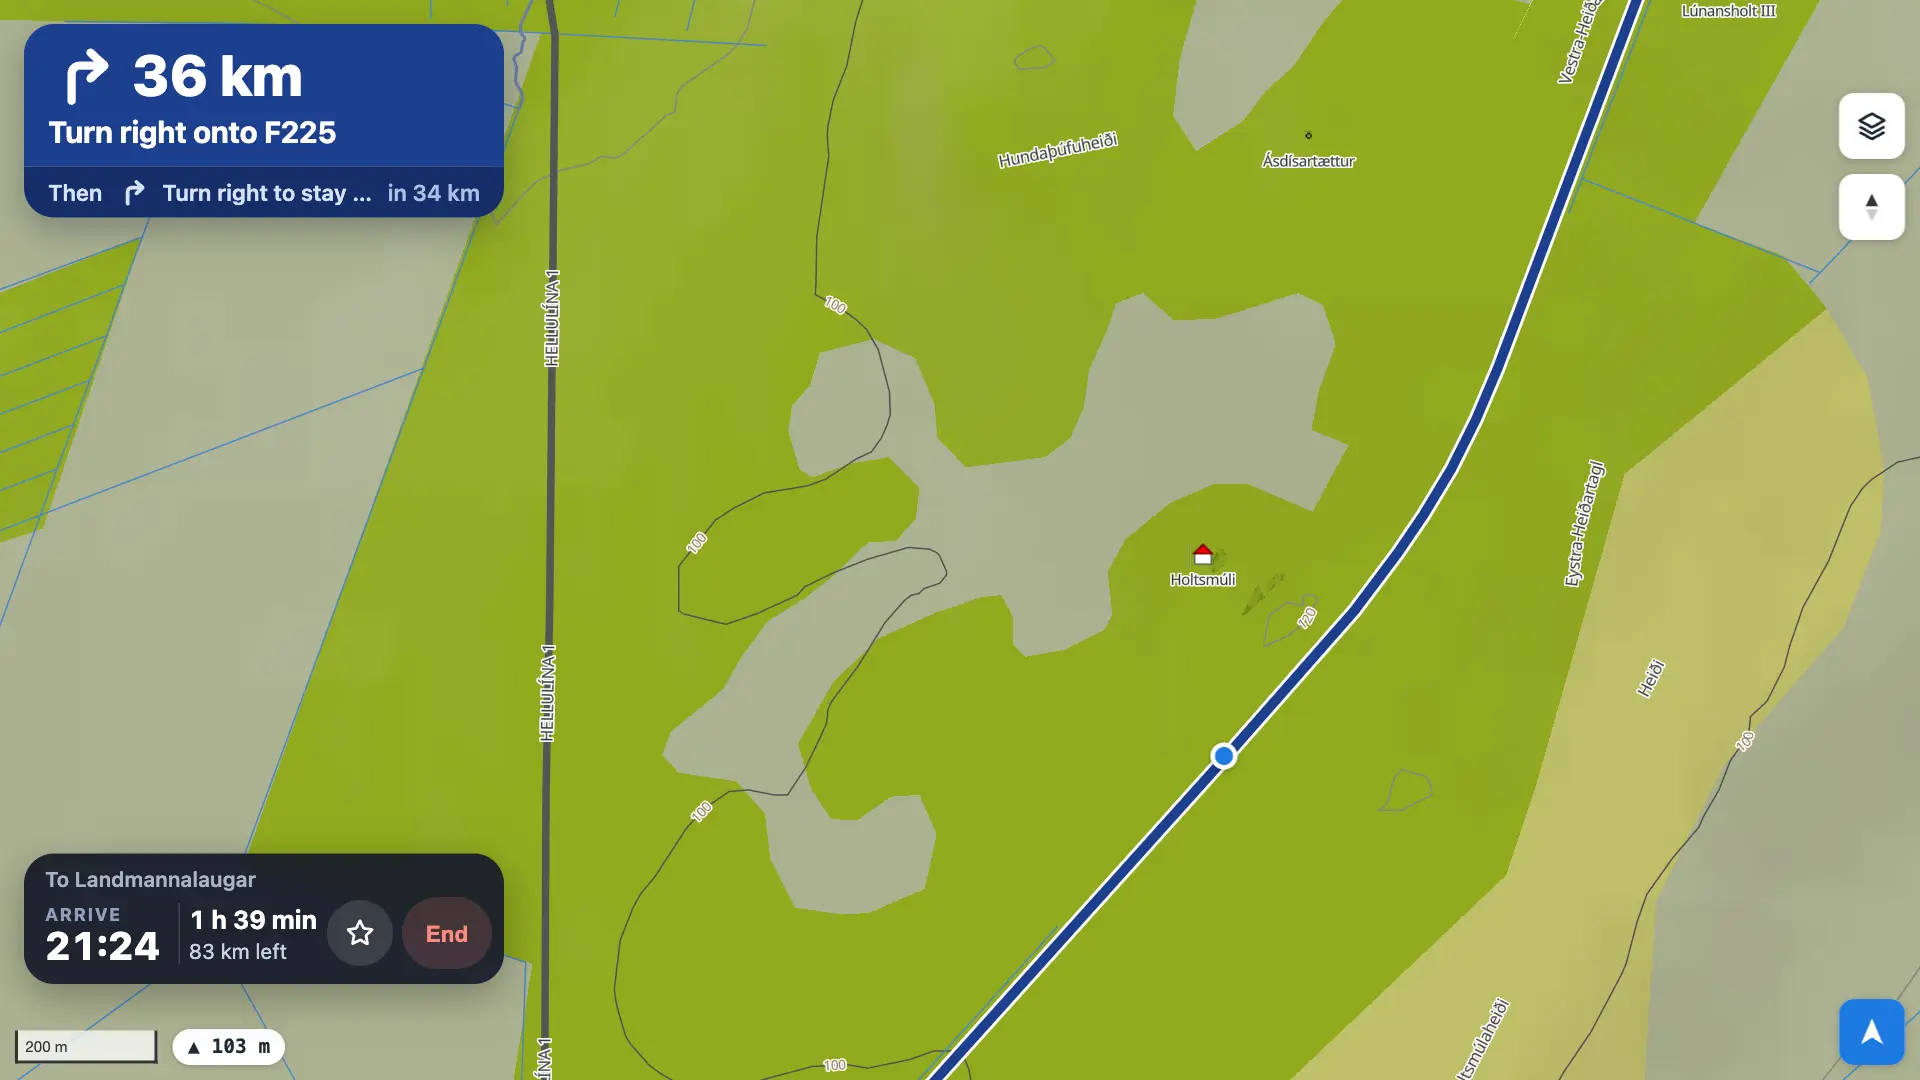
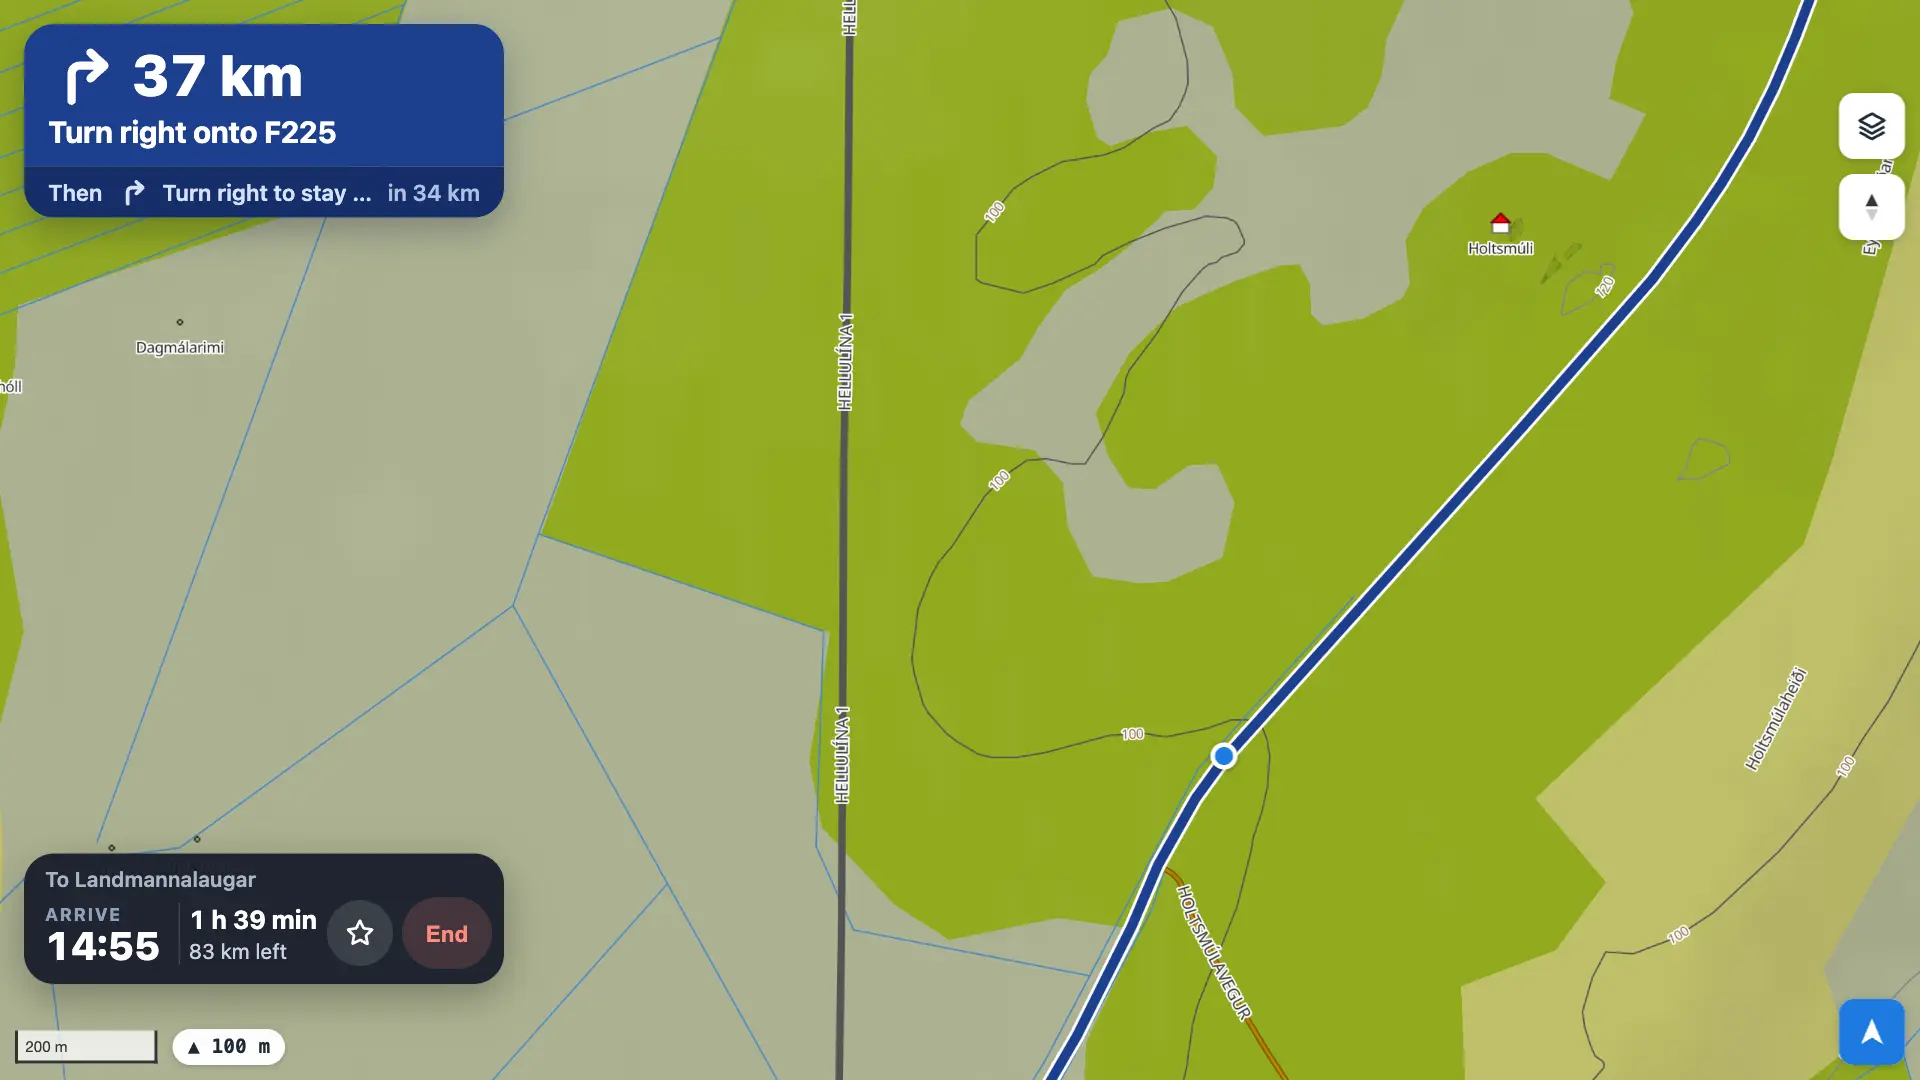
Guide: screenshots retaken with Drive | Walk, and walking in the route card's notes
The route card gained the Drive | Walk control; the guide's screenshots
are retaken (the others changed with the map's drawing since the last
time) and the route card's notes say what Walk does and how a place
away from the roads is reached on foot.

diff --git a/web/site/index.html b/web/site/index.html
@@ -343,14 +343,15 @@
   <section id="route">
     <h2>Plan a route</h2>
     <p>Open a place's card (a search result, a dropped pin or a saved star) and tap <b>Route here</b>. The route is worked out on the phone, offline, over the map's own road network, from your position (or the map centre without GPS). Tap the map elsewhere to close a card you haven't routed yet.</p>
-    <div class="shots"><figure><img src="images/route.webp" width="780" height="1688" loading="lazy" alt="The route card for a route from Selfoss to Landmannalaugar: 2 hours, 125 km, the stops, route options and a Start button" /><figcaption>A route: time, distance, arrival, and <b>Start</b>.</figcaption></figure><figure><img src="images/navigation.webp" width="780" height="1688" loading="lazy" alt="Navigating: a blue banner with the next turn, Turn right onto F225 in 36 km, and a dark panel with the arrival time and distance left" /><figcaption>Navigating: the next turn on top, the trip below.</figcaption></figure></div>
+    <div class="shots"><figure><img src="images/route.webp" width="780" height="1688" loading="lazy" alt="The route card for a route from Selfoss to Landmannalaugar: 2 hours, 125 km, the stops, Drive or Walk, route options and a Start button" /><figcaption>A route: time, distance, arrival, and <b>Start</b>.</figcaption></figure><figure><img src="images/navigation.webp" width="780" height="1688" loading="lazy" alt="Navigating: a blue banner with the next turn, Turn right onto F225 in 36 km, and a dark panel with the arrival time and distance left" /><figcaption>Navigating: the next turn on top, the trip below.</figcaption></figure></div>
     <div class="note">
       <h3>The route card</h3>
       <ul>
         <li>The blue band shows the <b>driving time</b>, the distance and roughly when you'd <b>arrive</b> if you left now.</li>
         <li>Below it are the stops: <b>From</b> (tap <b>Change</b> to use your location or choose a start on the map), any waypoints, and <b>To</b>.</li>
-        <li><b>Route options</b> holds two switches: turn off <b>Allow F-roads and tracks</b> for a normal car, or turn on <b>Prefer F-roads and tracks</b> to take the highland way even when the Ring Road would be a little quicker. The time shown stays the realistic one.</li>
-        <li>A place away from any road joins the nearest road; the straight way to it is drawn dashed and its length is shown under the stops.</li>
+        <li><b>Route options</b> (for driving) holds two switches: turn off <b>Allow F-roads and tracks</b> for a normal car, or turn on <b>Prefer F-roads and tracks</b> to take the highland way even when the Ring Road would be a little quicker. The time shown stays the realistic one.</li>
+        <li><b>Drive</b> or <b>Walk</b>: Walk plans the whole way on foot along the map's roads and paths (hiking trails included) at 4 km/h, for places up to 100 km apart. The choice is kept for the next route.</li>
+        <li>Driving to a place away from any road, the route takes you to a road and the rest is on foot: along a trail when one leads there sooner, otherwise straight to the nearest road. That part is drawn dashed and its length is shown under the stops ("+ 2.7 km on foot at the end"); guidance covers the driving part.</li>
         <li><b>×</b> clears the route (it asks first).</li>
       </ul>
     </div>
